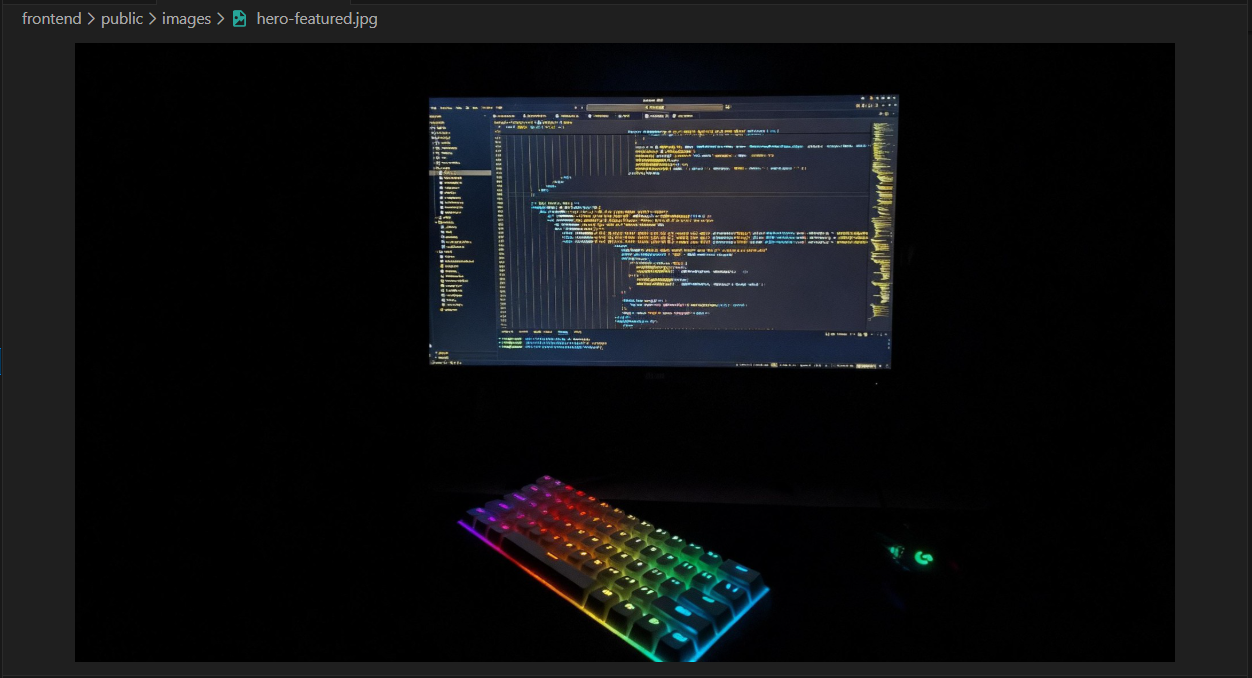
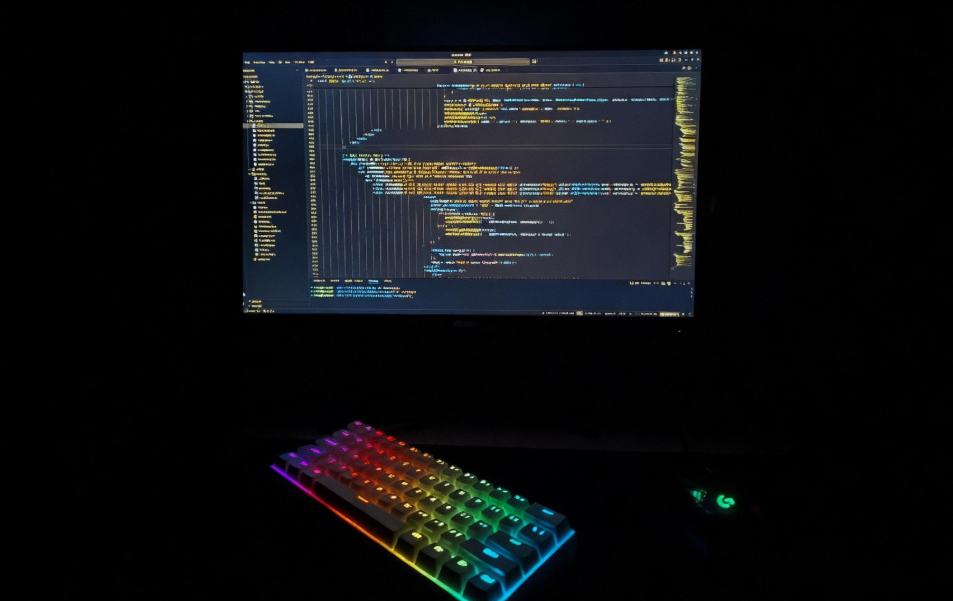
Se mejora la imagen del Hero en mobile y sus textos

diff --git a/frontend/src/components/sections/Hero.tsx b/frontend/src/components/sections/Hero.tsx
@@ -144,6 +144,11 @@ export default function Hero() {
             line-height: 1.25;
             margin-bottom: 1.5rem;
           }
+
+          h3 {
+            font-size: 1.4rem;
+            line-height: 1.2;}
+
           p {
             font-size: 1.1rem;
             line-height: 1.6;
